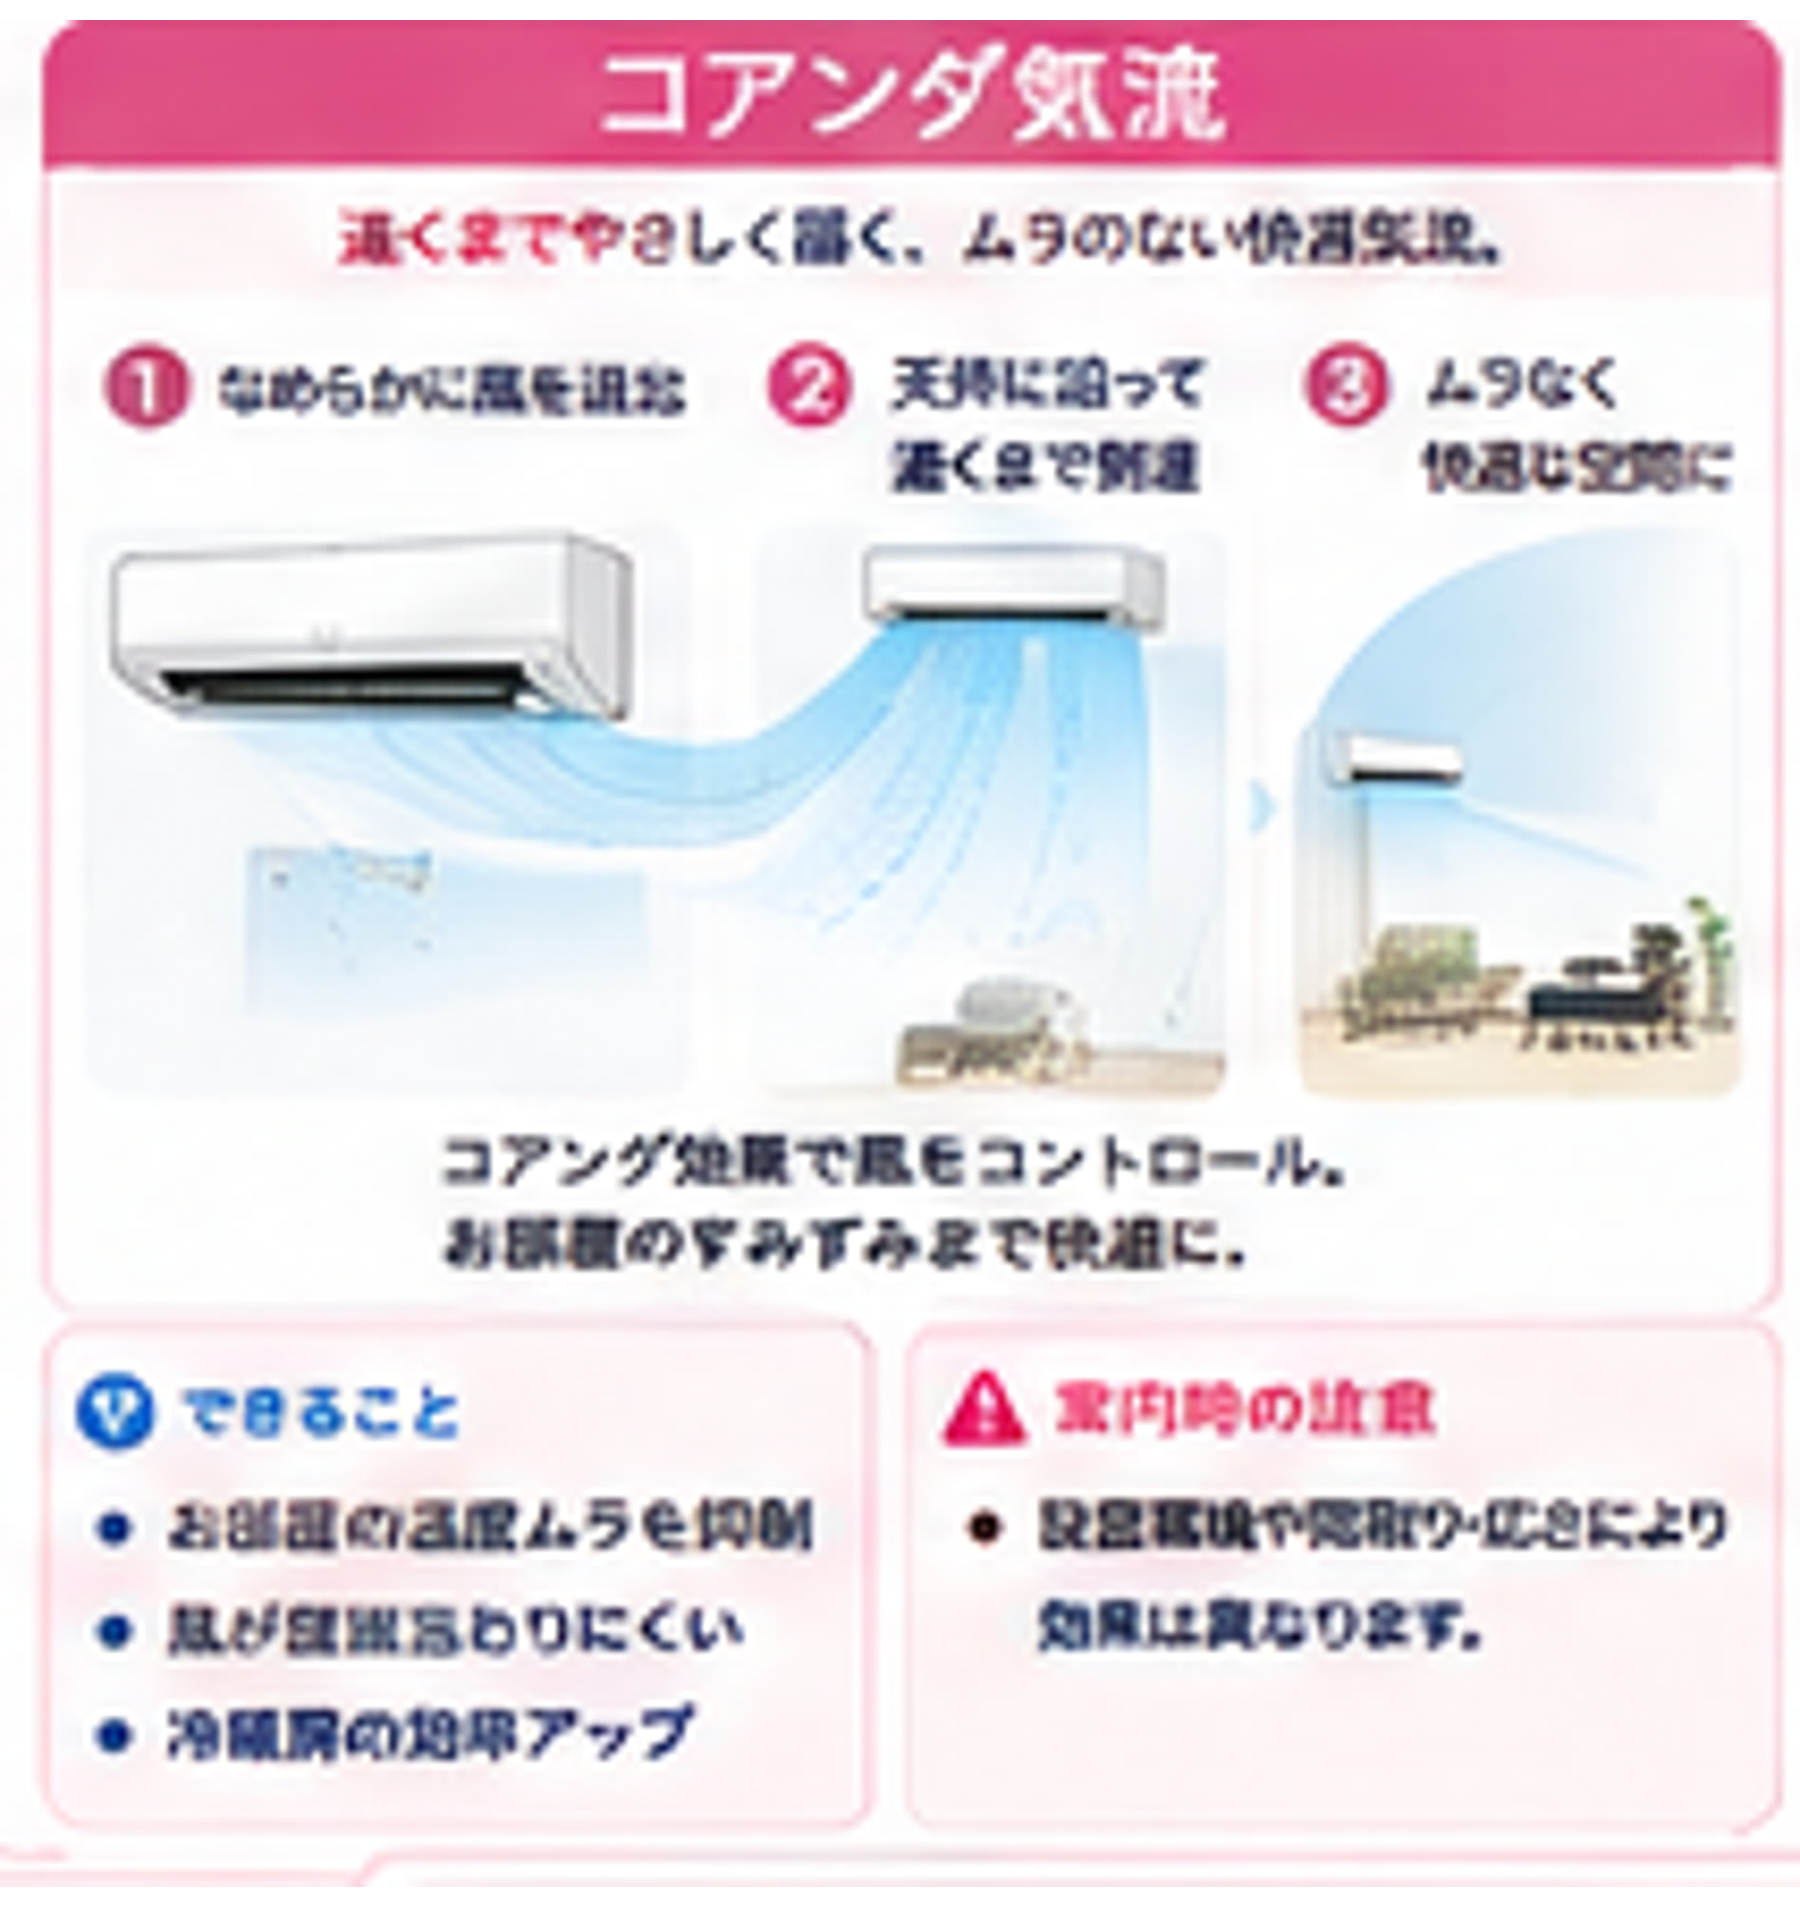
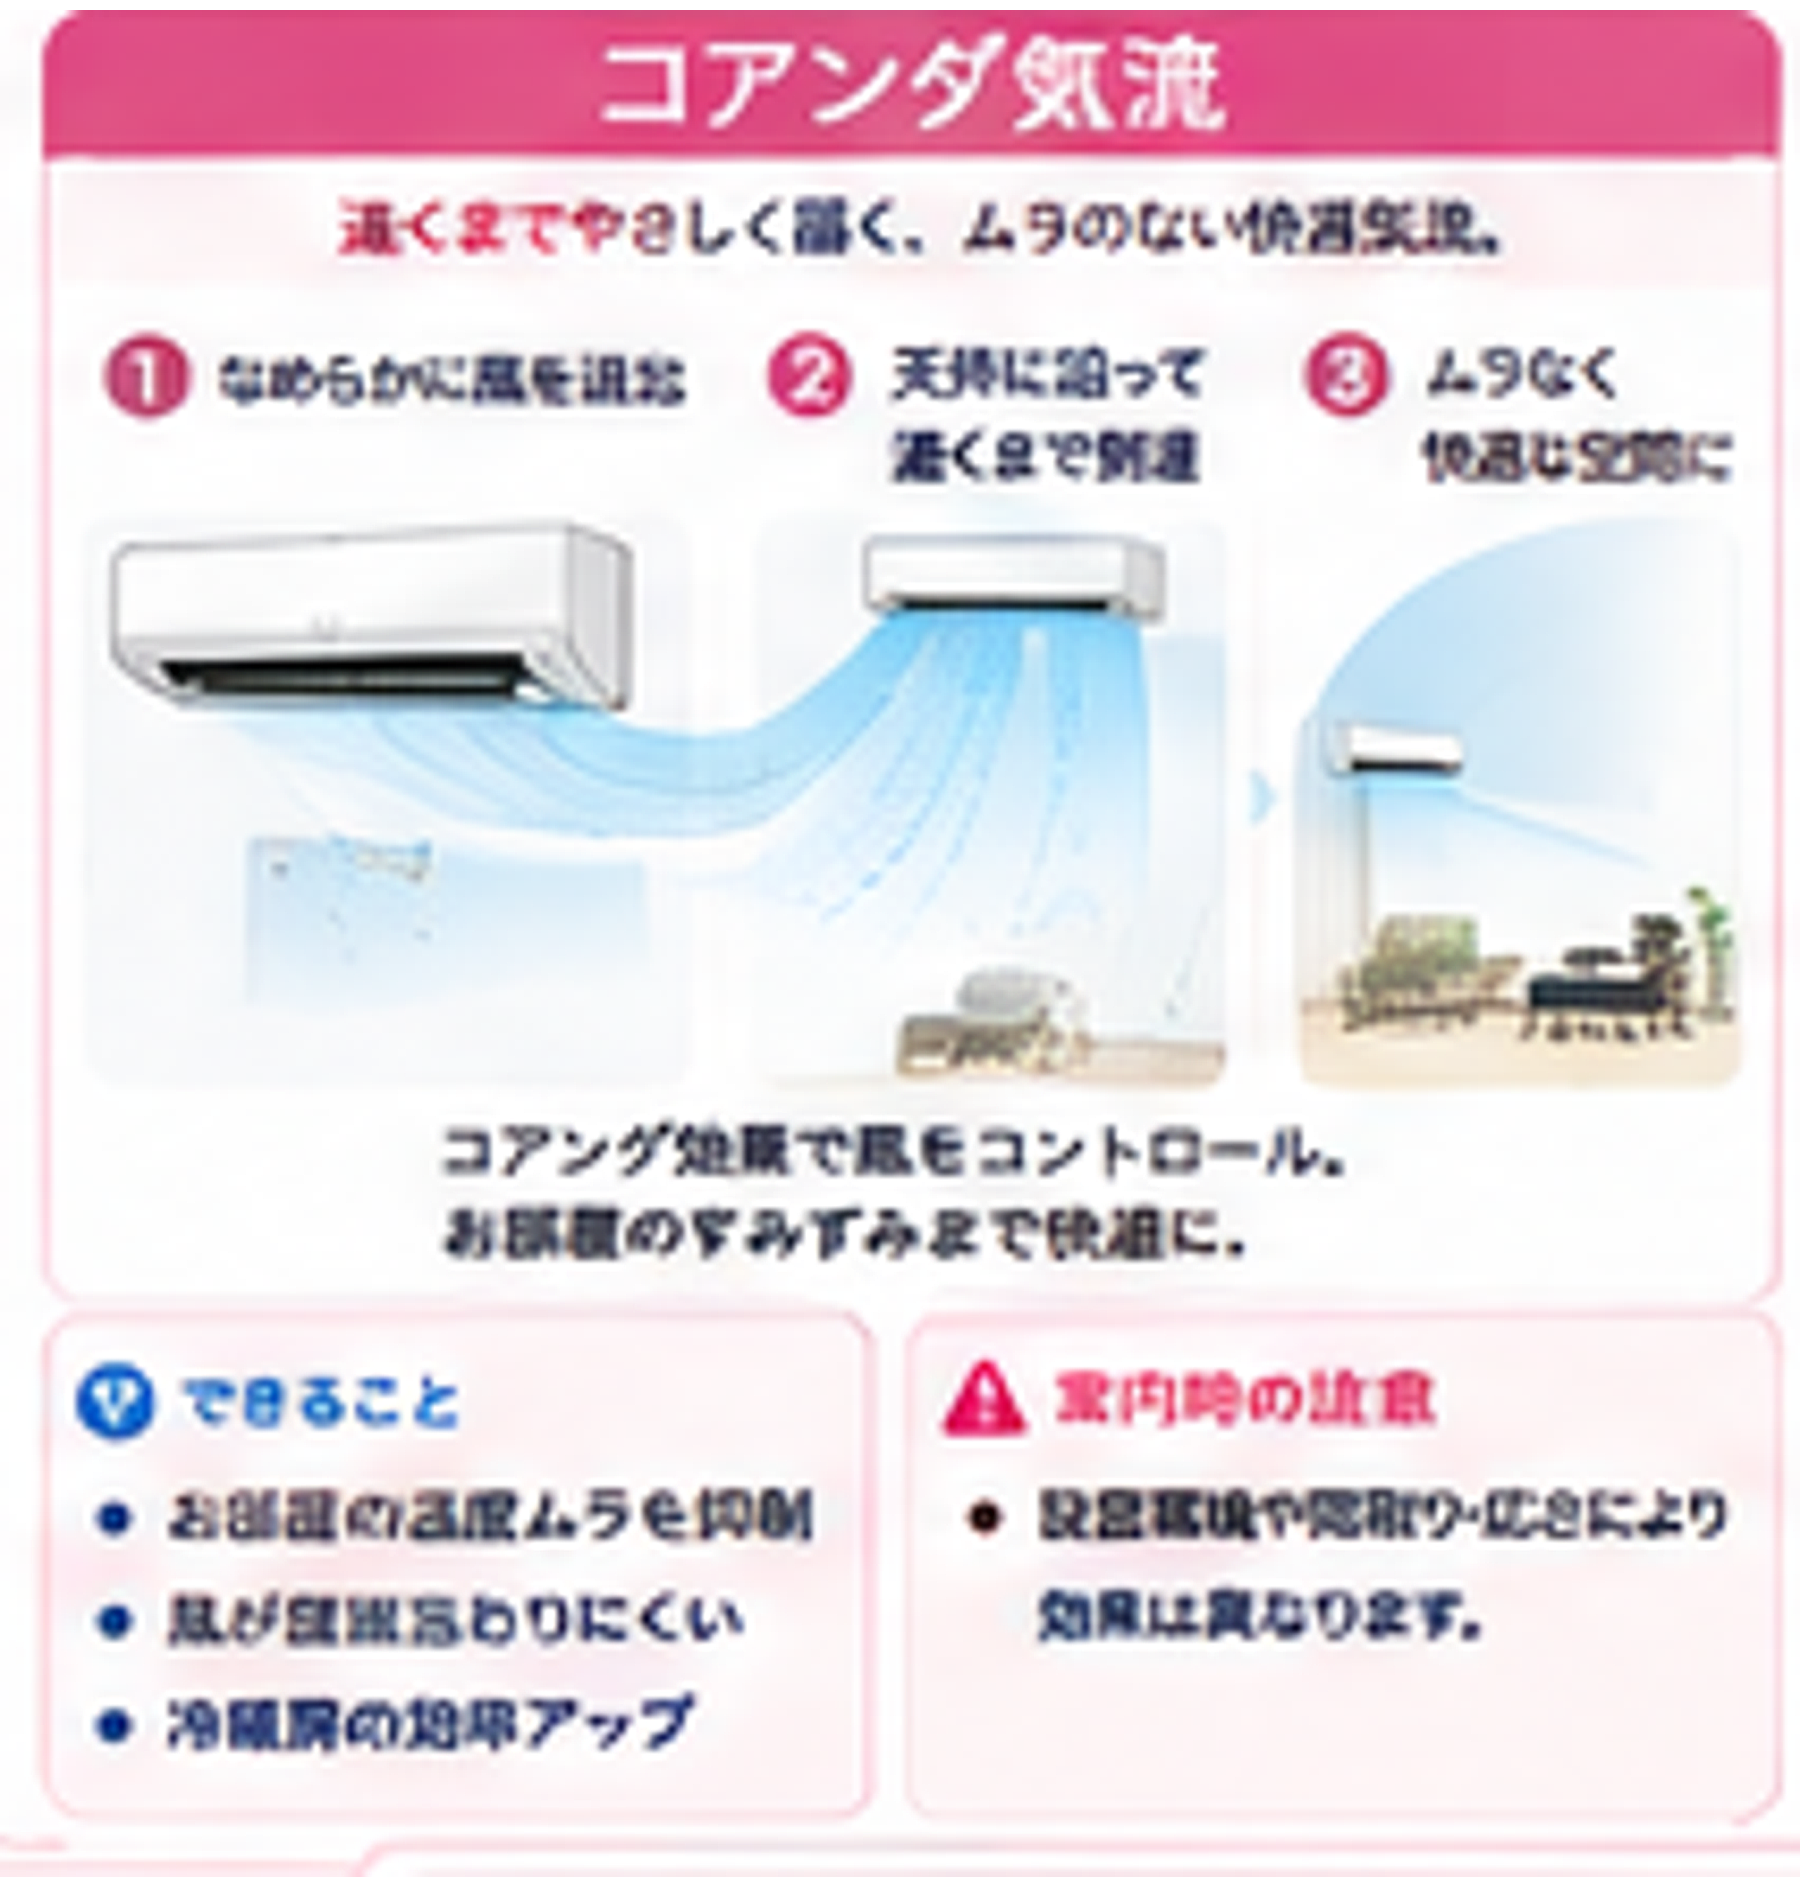
Add files via upload

diff --git a/index.html b/index.html
@@ -4,7 +4,7 @@
 <meta charset="utf-8">
 <meta name="viewport" content="width=device-width,initial-scale=1,viewport-fit=cover">
 <meta name="theme-color" content="#ffffff">
-<title>エアコン販買マスター Pro Ver.6.2.2 三菱図解ライブラリ統一版</title>
+<title>エアコン販買マスター Pro Ver.6.2.3 SHARP余白修正・三菱大型化版</title>
 <link rel="apple-touch-icon" sizes="180x180" href="apple-touch-icon.png?v=3890">
 <link rel="icon" type="image/png" sizes="32x32" href="favicon-32.png?v=3890">
 <style>
@@ -1308,6 +1308,37 @@ html,body{max-width:100%;overflow-x:hidden}
   #visualGrid .visual-card img[src*="mitsubishi-"]{min-height:0!important}
 }
 </style>
+
+<style id="v623-visual-fix">
+#visualGrid .visual-card{
+  padding:10px!important;
+  overflow:hidden!important;
+}
+#visualGrid .visual-card img[src*="sharp-"],
+#visualGrid .visual-card img[src*="mitsubishi-"]{
+  width:100%!important;
+  height:auto!important;
+  min-height:0!important;
+  max-height:none!important;
+  object-fit:contain!important;
+  object-position:center top!important;
+  display:block!important;
+  margin:0 auto 12px!important;
+  background:#fff!important;
+}
+@media(max-width:700px){
+  #visualGrid{grid-template-columns:1fr!important}
+  #visualGrid .visual-card img[src*="sharp-"]{
+    width:100%!important;
+  }
+  #visualGrid .visual-card img[src*="mitsubishi-"]{
+    width:112%!important;
+    max-width:none!important;
+    margin-left:-6%!important;
+  }
+}
+</style>
+
 </head>
 <body>
 <div class="app">
@@ -1318,7 +1349,7 @@ html,body{max-width:100%;overflow-x:hidden}
     <div class="brand">
       <span class="brand-snow">❄</span>
       <span>エアコン販買マスター</span>
-      <small>Ver.6.2.2 三菱図解ライブラリ統一版</small>
+      <small>Ver.6.2.3 SHARP余白修正・三菱大型化版</small>
     </div>
     <button class="icon-button status-button" onclick="openMission()" aria-label="今日の目標">◎</button>
   </header>
@@ -3153,21 +3184,21 @@ const VISUAL_LIBRARY=[
  {category:"toshiba",file:"toshiba-filter-illustrated.png?v=617",title:"フィルター自動お掃除（東芝）",desc:"自動掃除から楽ダストボックスまでを図解。"},
  {category:"toshiba",file:"toshiba-iolife-illustrated.png?v=617",title:"IoLIFE",desc:"Wi-Fi接続・機器登録・スマホ操作の流れを図解。"},
  {category:"toshiba",file:"toshiba-series-illustrated.png?v=617",title:"東芝5シリーズ比較",desc:"V-DR・V-DZ・V-DX・V-X・V-Mの位置づけを図解。"},
- {category:"sharp",file:"sharp-dryfan-illustrated.png?v=619",title:"防カビカラッとファン",desc:"Rシリーズのファン清潔機能を図解。"},
- {category:"sharp",file:"sharp-hyoketsu-illustrated.png?v=619",title:"氷結ドライ",desc:"熱交換器を氷点下まで下げる除湿の流れを図解。"},
- {category:"sharp",file:"sharp-takumi-illustrated.png?v=619",title:"匠の冷房",desc:"温度・湿度・気流を見ながら快適性を高める考え方を図解。"},
- {category:"sharp",file:"sharp-filter-illustrated.png?v=619",title:"フィルター自動お掃除（SHARP）",desc:"Vシリーズの自動お掃除と定期確認を図解。"},
- {category:"sharp",file:"sharp-coanda-illustrated.png?v=619",title:"コアンダ気流",desc:"直接風を抑えながら届ける気流を図解。"},
- {category:"sharp",file:"sharp-plasma-illustrated.png?v=619",title:"プラズマクラスター",desc:"R・V・Eの25000とDGの7000を比較。"},
- {category:"sharp",file:"sharp-series-illustrated.png?v=619",title:"SHARP 4シリーズ比較",desc:"R・V・E・DGの位置づけを図解。"},
+ {category:"sharp",file:"sharp-dryfan-illustrated.png?v=623",title:"防カビカラッとファン",desc:"Rシリーズのファン清潔機能を図解。"},
+ {category:"sharp",file:"sharp-hyoketsu-illustrated.png?v=623",title:"氷結ドライ",desc:"熱交換器を氷点下まで下げる除湿の流れを図解。"},
+ {category:"sharp",file:"sharp-takumi-illustrated.png?v=623",title:"匠の冷房",desc:"温度・湿度・気流を見ながら快適性を高める考え方を図解。"},
+ {category:"sharp",file:"sharp-filter-illustrated.png?v=623",title:"フィルター自動お掃除（SHARP）",desc:"Vシリーズの自動お掃除と定期確認を図解。"},
+ {category:"sharp",file:"sharp-coanda-illustrated.png?v=623",title:"コアンダ気流",desc:"直接風を抑えながら届ける気流を図解。"},
+ {category:"sharp",file:"sharp-plasma-illustrated.png?v=623",title:"プラズマクラスター",desc:"R・V・Eの25000とDGの7000を比較。"},
+ {category:"sharp",file:"sharp-series-illustrated.png?v=623",title:"SHARP 4シリーズ比較",desc:"R・V・E・DGの位置づけを図解。"},
  {category:"toshiba",file:"toshiba-settings-illustrated.png?v=617",title:"東芝 初期設定",desc:"手動選択・自動・IoLIFE接続設定を整理。"},
- {category:"sharp",file:"sharp-settings-illustrated.png?v=619",title:"SHARP 初期設定",desc:"設定が必要な機能・自動機能・アプリ接続を整理。"},
- {category:"mitsubishi",file:"mitsubishi-moveeye-illustrated.png?v=622",title:"ムーブアイ",desc:"赤外線センサーで体感温度を見て快適に。"},
- {category:"mitsubishi",file:"mitsubishi-hybrid-illustrated.png?v=622",title:"ハイブリッド運転",desc:"冷房と送風を自動で切り替える。"},
- {category:"mitsubishi",file:"mitsubishi-two-point-illustrated.png?v=622",title:"2か所同時空調",desc:"離れた2人へ2つの気流を届ける。"},
- {category:"mitsubishi",file:"mitsubishi-puremist-illustrated.png?v=622",title:"ピュアミスト",desc:"ナノレベルの水のミストで空気をケア。"},
- {category:"mitsubishi",file:"mitsubishi-series-illustrated.png?v=622",title:"三菱シリーズ比較",desc:"FZ・Z・X・R・Sの位置づけを整理。"},
- {category:"mitsubishi",file:"mitsubishi-settings-illustrated.png?v=622",title:"三菱 初期設定",desc:"自動・節電設定・アプリ接続を分けて案内。"},
+ {category:"sharp",file:"sharp-settings-illustrated.png?v=623",title:"SHARP 初期設定",desc:"設定が必要な機能・自動機能・アプリ接続を整理。"},
+ {category:"mitsubishi",file:"mitsubishi-moveeye-illustrated.png?v=623",title:"ムーブアイ",desc:"赤外線センサーで体感温度を見て快適に。"},
+ {category:"mitsubishi",file:"mitsubishi-hybrid-illustrated.png?v=623",title:"ハイブリッド運転",desc:"冷房と送風を自動で切り替える。"},
+ {category:"mitsubishi",file:"mitsubishi-two-point-illustrated.png?v=623",title:"2か所同時空調",desc:"離れた2人へ2つの気流を届ける。"},
+ {category:"mitsubishi",file:"mitsubishi-puremist-illustrated.png?v=623",title:"ピュアミスト",desc:"ナノレベルの水のミストで空気をケア。"},
+ {category:"mitsubishi",file:"mitsubishi-series-illustrated.png?v=623",title:"三菱シリーズ比較",desc:"FZ・Z・X・R・Sの位置づけを整理。"},
+ {category:"mitsubishi",file:"mitsubishi-settings-illustrated.png?v=623",title:"三菱 初期設定",desc:"自動・節電設定・アプリ接続を分けて案内。"},
  {category:"construction",file:"construction-voltage.png",title:"100V・200V",desc:"コンセント・電圧・分電盤をセットで確認。"},
  {category:"construction",file:"construction-dedicated.png",title:"専用回路",desc:"分電盤からエアコンまで他機器と共用しない回路。"},
  {category:"construction",file:"construction-board.png",title:"分電盤",desc:"主幹・分岐・単相2線/3線・空き回路・専用回路を総合確認。"},
